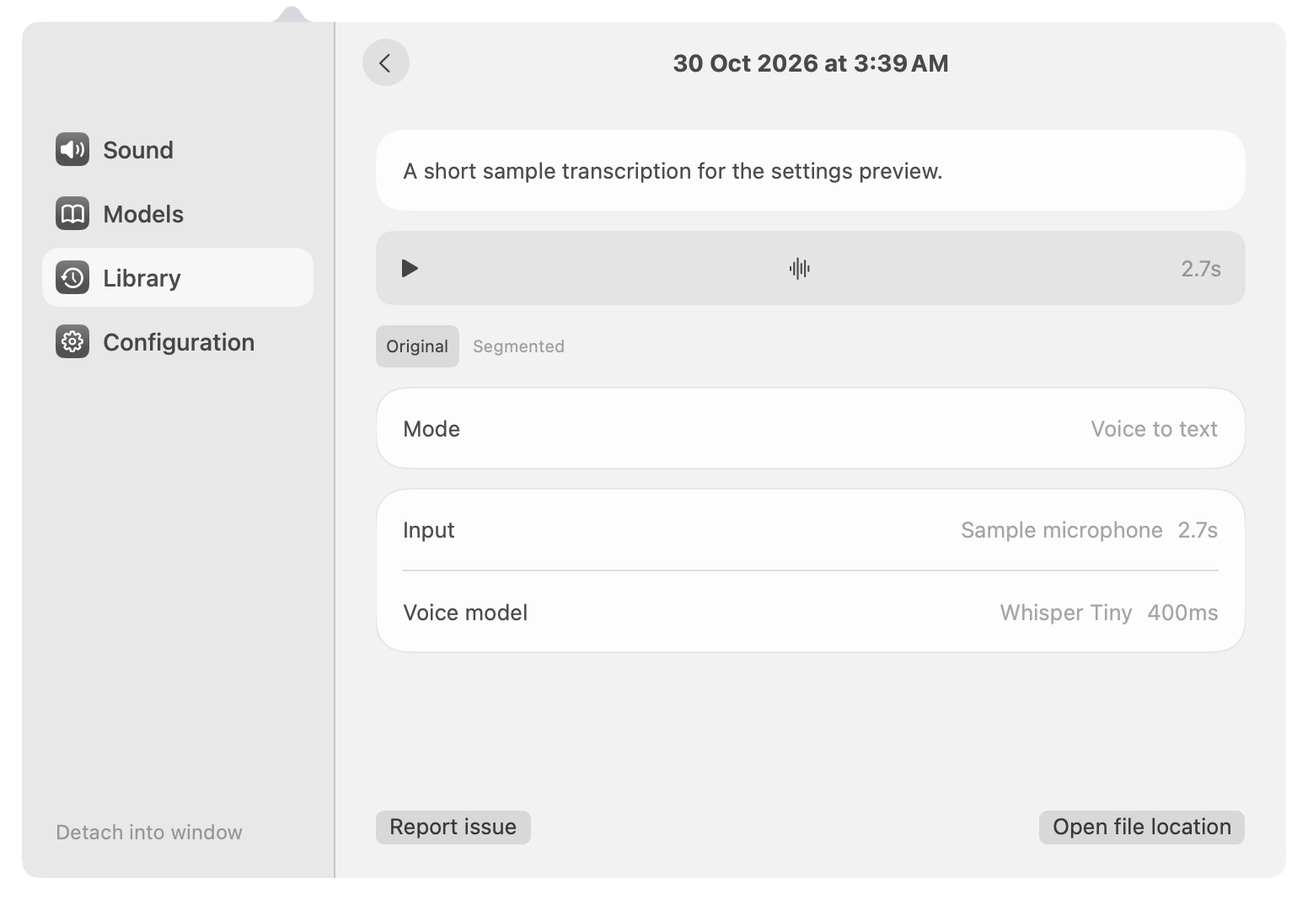
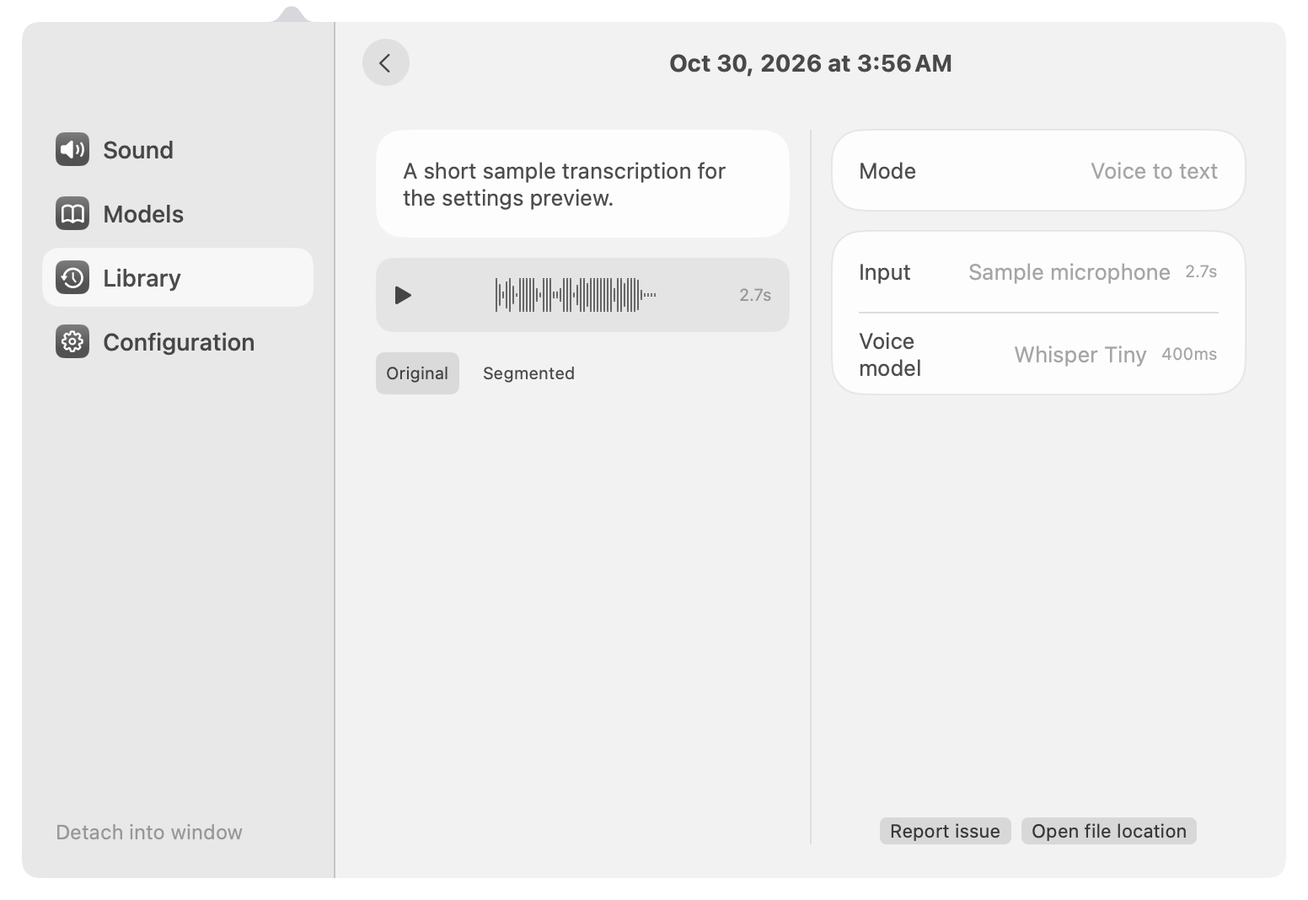
Refine settings captures and fixture behavior

diff --git a/Sources/LightTTS/Views/Settings/SettingsView.swift b/Sources/LightTTS/Views/Settings/SettingsView.swift
@@ -21,7 +21,7 @@ struct SettingsView: View {
         HStack(spacing: 0) {
             VStack(alignment: .leading, spacing: 3) {
                 ForEach(SettingsTab.allCases, id: \.rawValue) { tab in
-                    Button { controller.settingsSelection = tab.rawValue } label: {
+                    Button { controller.selectSettings(tab.rawValue) } label: {
                         HStack(spacing: 8) {
                             Image(systemName: tab.icon).font(.system(size: 12, weight: .semibold)).foregroundStyle(.white).frame(width: 20, height: 20).background(Color(white: 0.32).gradient, in: RoundedRectangle(cornerRadius: 5))
                             Text(tab.rawValue).font(.system(size: 14, weight: .medium))
@@ -36,7 +36,7 @@ struct SettingsView: View {
             VStack(spacing: 0) {
                 HStack {
                     if controller.settingsSelection == "Library" {
-                        Button { if controller.selectedHistory != nil { controller.stopHistoryPlayback(); controller.selectedHistory = nil } else { controller.settingsSelection = "Sound" } } label: { Image(systemName: "chevron.left").frame(width: 28, height: 28).background(Color.primary.opacity(0.09), in: Circle()) }.buttonStyle(.plain)
+                        Button { if controller.selectedHistory != nil { controller.stopHistoryPlayback(); controller.selectedHistory = nil } else { controller.leaveLibrary() } } label: { Image(systemName: "chevron.left").frame(width: 28, height: 28).background(Color.primary.opacity(0.09), in: Circle()) }.buttonStyle(.plain)
                     }
                     if let item = controller.selectedHistory, controller.settingsSelection == "Library" { Spacer(); Text(item.date.formatted(Date.FormatStyle(date: .abbreviated, time: .shortened).locale(Locale(identifier: "en_US")))).font(.system(size: 14, weight: .bold)); Spacer() }
                     else { Text(controller.settingsSelection).font(.system(size: 14, weight: .bold)); Spacer() }
@@ -46,7 +46,7 @@ struct SettingsView: View {
                             HStack(spacing: 6) { Image(systemName: "magnifyingglass"); TextField("Search history", text: $controller.historySearch).textFieldStyle(.plain); Button { controller.historySearch = ""; controller.historySearchVisible = false } label: { Image(systemName: "xmark.circle.fill") }.buttonStyle(.plain) }.padding(.horizontal, 9).frame(width: 220, height: 28).background(Color.primary.opacity(0.09), in: Capsule())
                         } else { Button { controller.historySearchVisible.toggle() } label: { Image(systemName: "magnifyingglass").frame(width: 28, height: 28).background(Color.primary.opacity(0.09), in: Circle()) }.buttonStyle(.plain).help("Search recordings") }
                     } else {
-                        Menu { Button("System Default") { UserDefaults.standard.set("", forKey: "inputDevice") }; Divider(); ForEach(AVCaptureDevice.devices(for: .audio), id: \.uniqueID) { device in Button(device.localizedName) { UserDefaults.standard.set(device.uniqueID, forKey: "inputDevice") } } } label: { Image(systemName: "laptopcomputer").font(.system(size: 14)) }.menuStyle(.borderlessButton).menuIndicator(.hidden).frame(width: 28, height: 28).background(Color.primary.opacity(0.09), in: Circle()).overlay(Circle().stroke(Color.primary.opacity(0.1))).help("Select microphone")
+                        Menu { Button("System Default") { SettingsDefaults.store.set("", forKey: "inputDevice") }; Divider(); ForEach(AVCaptureDevice.devices(for: .audio), id: \.uniqueID) { device in Button(device.localizedName) { SettingsDefaults.store.set(device.uniqueID, forKey: "inputDevice") } } } label: { Image(systemName: "laptopcomputer").font(.system(size: 14)) }.menuStyle(.borderlessButton).menuIndicator(.hidden).frame(width: 28, height: 28).background(Color.primary.opacity(0.09), in: Circle()).overlay(Circle().stroke(Color.primary.opacity(0.1))).help("Select microphone")
                     }
                 }.padding(.horizontal, 16).frame(height: 48)
                 switch controller.settingsSelection {
@@ -56,7 +56,7 @@ struct SettingsView: View {
                 default: ConfigurationPageView(controller: controller)
                 }
             }.frame(maxWidth: .infinity, maxHeight: .infinity, alignment: .topLeading).background(Color(nsColor: dark ? NSColor(srgbRed: 44/255, green: 47/255, blue: 52/255, alpha: 1) : NSColor(srgbRed: 0.95, green: 0.95, blue: 0.95, alpha: 1)))
-        }.frame(width: 750, height: 508).foregroundStyle(dark ? Color(red: 233/255, green: 233/255, blue: 234/255) : Color(nsColor: .labelColor)).preferredColorScheme(effectiveTheme == "Dark" ? .dark : effectiveTheme == "Light" ? .light : nil)
+        }.frame(width: 750, height: 508).foregroundStyle(dark ? Color(red: 233/255, green: 233/255, blue: 234/255) : Color(nsColor: .labelColor)).preferredColorScheme(effectiveTheme == "Dark" ? .dark : effectiveTheme == "Light" ? .light : nil).defaultAppStorage(CommandLine.arguments.contains("--ui-fixture") ? SettingsDefaults.store : .standard)
     }
 }
 
@@ -67,11 +67,22 @@ private struct SettingsCard<Content: View>: View {
     @ViewBuilder var content: Content
     var body: some View { VStack(spacing: 0) { content }.padding(.horizontal, 16).background(scheme == .dark ? Color(red: 60/255, green: 63/255, blue: 67/255) : Color(white: 253/255), in: RoundedRectangle(cornerRadius: 18)).overlay(RoundedRectangle(cornerRadius: 18).stroke(Color.primary.opacity(0.08))) }
 }
+private struct ReferenceSwitchStyle: ToggleStyle {
+    let label: String
+    @Environment(\.isEnabled) private var enabled
+    func makeBody(configuration: Configuration) -> some View {
+        Button { configuration.isOn.toggle() } label: {
+            Capsule().fill(configuration.isOn ? Color(red: 228/255, green: 92/255, blue: 156/255) : Color.primary.opacity(0.16))
+                .overlay(Circle().fill(Color.white).frame(width: 16, height: 16).shadow(color: .black.opacity(0.18), radius: 1, y: 1).offset(x: configuration.isOn ? 7 : -7))
+                .frame(width: 34, height: 20).opacity(enabled ? 1 : 0.5)
+        }.buttonStyle(.plain).accessibilityLabel(label).accessibilityValue(configuration.isOn ? "On" : "Off")
+    }
+}
 private struct SettingsRow<Content: View>: View {
     let title: String
     var help: String? = nil
     @ViewBuilder var content: Content
-    var body: some View { HStack(spacing: 8) { Text(title); if let help { Image(systemName: "info.circle").help(help) }; Spacer(); content }.frame(minHeight: 48) }
+    var body: some View { HStack(spacing: 8) { Text(title).lineLimit(1).fixedSize(horizontal: true, vertical: false); if let help { Image(systemName: "info.circle").help(help) }; Spacer(); content }.frame(minHeight: 48) }
 }
 private struct SoundPageView: View {
     @ObservedObject var controller: AppController
@@ -97,7 +108,7 @@ private struct SoundPageView: View {
                     }.menuStyle(.borderlessButton).menuIndicator(.hidden).frame(width: 145, height: 30).background(Color.primary.opacity(0.08), in: RoundedRectangle(cornerRadius: 9)).overlay(RoundedRectangle(cornerRadius: 9).stroke(Color.primary.opacity(0.1))).overlay(alignment: .trailing) { Image(systemName: "chevron.up.chevron.down").font(.system(size: 10)).foregroundStyle(.secondary).padding(.trailing, 9).allowsHitTesting(false) }.help("Pause uses the system media control; Muffle lowers volume if system audio capture is unavailable.")
                 }
                 Divider()
-                HStack { Text("Automatically increase microphone volume"); Image(systemName: "questionmark.circle").help("Increase input volume while recording"); Spacer(); Toggle("", isOn: $increaseMic).labelsHidden().toggleStyle(.switch).tint(Color(red: 228/255, green: 92/255, blue: 156/255)) }.frame(minHeight: 48)
+                HStack { Text("Automatically increase microphone volume"); Image(systemName: "questionmark.circle").help("Increase input volume while recording"); Spacer(); Toggle("", isOn: $increaseMic).labelsHidden().toggleStyle(ReferenceSwitchStyle(label: "Automatically increase microphone volume")) }.frame(minHeight: 48)
             }
             if !controller.message.isEmpty { Text(controller.message).font(.caption).foregroundStyle(.secondary) }
         }.padding(.horizontal, 24).padding(.top, 16) }.font(.system(size: 14))
@@ -140,8 +151,8 @@ private struct LibraryPageView: View {
                         Text(item.text).textSelection(.enabled).frame(maxWidth: .infinity, alignment: .leading).padding(16).background(scheme == .dark ? Color(red: 60/255, green: 63/255, blue: 67/255) : Color(white: 253/255), in: RoundedRectangle(cornerRadius: 16))
                         HStack { Button { controller.toggleHistoryPlayback(item) } label: { Image(systemName: controller.playingHistoryID == item.id ? "pause.fill" : "play.fill") }.buttonStyle(.plain).disabled(controller.historyAudioURL(item) == nil); HStack(spacing: 1) { if let waveform = item.waveform, !waveform.isEmpty { ForEach(Array(waveform.enumerated()), id: \.offset) { _, amplitude in Capsule().fill(Color.primary.opacity(0.65)).frame(width: 1, height: max(2, CGFloat(amplitude) * 20)) } } else { Image(systemName: "waveform").foregroundStyle(.secondary) } }.frame(maxWidth: .infinity, minHeight: 24); Text(item.recordingDuration.map { String(format: "%.1fs", $0) } ?? "—").foregroundStyle(.secondary).font(.caption) }.padding(10).background(Color.primary.opacity(0.07), in: RoundedRectangle(cornerRadius: 10))
                         HStack {
-                            Button("Original") { controller.historySegmented = false }.buttonStyle(.plain).padding(6).background(!controller.historySegmented ? Color.primary.opacity(0.12) : .clear, in: RoundedRectangle(cornerRadius: 5))
-                            Button("Segmented") { controller.historySegmented = true }.buttonStyle(.plain).padding(6).background(controller.historySegmented ? Color.primary.opacity(0.12) : .clear, in: RoundedRectangle(cornerRadius: 5)).disabled(item.segments?.isEmpty ?? true).help("Play speech segments detected from the recording")
+                            Button("Original") { controller.stopHistoryPlayback(); controller.historySegmented = false }.buttonStyle(.plain).padding(6).background(!controller.historySegmented ? Color.primary.opacity(0.12) : .clear, in: RoundedRectangle(cornerRadius: 5))
+                            Button("Segmented") { controller.stopHistoryPlayback(); controller.historySegmented = true }.buttonStyle(.plain).padding(6).background(controller.historySegmented ? Color.primary.opacity(0.12) : .clear, in: RoundedRectangle(cornerRadius: 5)).disabled(item.segments?.isEmpty ?? true).help("Play speech segments detected from the recording")
                         }.font(.caption)
                         if controller.historySegmented, let segments = item.segments {
                             ForEach(Array(segments.enumerated()), id: \.offset) { index, segment in Button { controller.toggleHistoryPlayback(item, segment: segment) } label: { HStack { Image(systemName: "play.fill"); Text("Segment \(index + 1)"); Spacer(); Text(String(format: "%.1fs – %.1fs", segment.start, segment.end)).foregroundStyle(.secondary) }.font(.caption).padding(10).background(Color.primary.opacity(0.07), in: RoundedRectangle(cornerRadius: 8)) }.buttonStyle(.plain) }
@@ -209,37 +220,37 @@ private struct ConfigurationPageView: View {
                 Divider()
                 HStack(alignment: .top) { Text("Recording window").padding(.top, 16); Spacer(); choices(["Classic", "Mini", "None"], selection: $recordingWindow, icons: ["waveform", "waveform", "eye.slash"]) }.padding(.vertical, 8)
                 Divider()
-                HStack(spacing: 8) { Text("Always show"); Image(systemName: "questionmark.circle").help("Keep the mini recording window visible"); Spacer(); Toggle("", isOn: $alwaysShow).labelsHidden().toggleStyle(.switch).tint(Color(red: 228/255, green: 92/255, blue: 156/255)).disabled(recordingWindow != "Mini") }.frame(height: 45)
+                HStack(spacing: 8) { Text("Always show"); Image(systemName: "questionmark.circle").help("Keep the mini recording window visible"); Spacer(); Toggle("", isOn: $alwaysShow).labelsHidden().toggleStyle(ReferenceSwitchStyle(label: "Always show")).disabled(recordingWindow != "Mini") }.frame(height: 45)
             }.onChange(of: recordingWindow) { _ in controller.refreshRecordingWindow() }.onChange(of: alwaysShow) { _ in controller.refreshRecordingWindow() }
             Text("Keyboard Shortcuts").font(.system(size: 14, weight: .semibold))
             SettingsCard {
                 shortcutRow("Toggle Recording", subtitle: "Starts and stops recordings", key: "hotkeyCode", modifiers: "hotkeyModifiers", fallback: 49); Divider()
                 shortcutRow("Cancel Recording", subtitle: "Discards the active recording", key: "cancelHotkeyCode", modifiers: nil, fallback: 53); Divider()
-                HStack { VStack(alignment: .leading, spacing: 2) { Text("Change mode"); Text("Activates the mode switcher").font(.system(size: 11)).foregroundStyle(.secondary) }; Spacer(); Image(systemName: "arrow.counterclockwise"); keycap("⌥"); keycap("⇧"); keycap("K") }.frame(minHeight: 50).foregroundStyle(.secondary).help("Modes are not included in LightTTS"); Divider()
+                HStack { VStack(alignment: .leading, spacing: 2) { Text("Change mode"); Text("Activates the mode switcher").font(.system(size: 11)).foregroundStyle(.secondary) }; Spacer(); Image(systemName: "arrow.counterclockwise"); keycap("⌥"); keycap("⇧"); keycap("K") }.frame(minHeight: 50).help("Modes are not included in LightTTS"); Divider()
                 shortcutRow("Push to Talk", subtitle: "Hold to record, release when done", key: "pushHotkeyCode", modifiers: "pushHotkeyModifiers", fallback: 49, enabled: "pushShortcutEnabled"); Divider()
                 HStack { VStack(alignment: .leading, spacing: 2) { Text("Mouse shortcut"); Text("Tap to toggle, or hold and release when done").font(.system(size: 11)).foregroundStyle(.secondary) }; Spacer(); MouseShortcutRecorder().frame(width: 120, height: 28) }.frame(minHeight: 50)
             }
             Text("Application").font(.system(size: 14, weight: .semibold))
             SettingsCard {
                 SettingsRow(title: "Update application") { Button("Check for Updates…") { controller.checkUpdates() } }; Divider()
-                SettingsRow(title: "Automatically check for updates", help: "Check for new releases automatically") { Toggle("", isOn: $autoCheckUpdates).labelsHidden().toggleStyle(.switch).tint(Color(red: 228/255, green: 92/255, blue: 156/255)) }; Divider()
-                SettingsRow(title: "Launch on login", help: "Open LightTTS when you log in") { Toggle("", isOn: $controller.loginEnabled).labelsHidden().toggleStyle(.switch).tint(Color(red: 228/255, green: 92/255, blue: 156/255)).onChange(of: controller.loginEnabled) { value in do { if value { try SMAppService.mainApp.register() } else { try SMAppService.mainApp.unregister() } } catch { controller.loginEnabled = SMAppService.mainApp.status == .enabled; controller.message = error.localizedDescription } } }; Divider()
-                SettingsRow(title: "Error logging", help: "Write diagnostic errors to a local log") { Toggle("", isOn: $errorLogging).labelsHidden().toggleStyle(.switch).tint(Color(red: 228/255, green: 92/255, blue: 156/255)).help("Write errors to a local log") }; Divider()
+                SettingsRow(title: "Automatically check for updates", help: "Check for new releases automatically") { Toggle("", isOn: $autoCheckUpdates).labelsHidden().toggleStyle(ReferenceSwitchStyle(label: "Automatically check for updates")) }; Divider()
+                SettingsRow(title: "Launch on login", help: "Open LightTTS when you log in") { Toggle("", isOn: $controller.loginEnabled).labelsHidden().toggleStyle(ReferenceSwitchStyle(label: "Launch on login")).onChange(of: controller.loginEnabled) { value in do { if value { try SMAppService.mainApp.register() } else { try SMAppService.mainApp.unregister() } } catch { controller.loginEnabled = SMAppService.mainApp.status == .enabled; controller.message = error.localizedDescription } } }; Divider()
+                SettingsRow(title: "Error logging", help: "Write diagnostic errors to a local log") { Toggle("", isOn: $errorLogging).labelsHidden().toggleStyle(ReferenceSwitchStyle(label: "Error logging")).help("Write errors to a local log") }; Divider()
                 SettingsRow(title: "Keep recordings for", help: "Automatically remove older recordings") { Picker("Keep recordings for", selection: retentionBinding) { Text("Forever").tag(0); Text("1 day").tag(1); Text("1 week").tag(7); Text("2 weeks").tag(14); Text("1 month").tag(30); Text("6 months").tag(180); Text("1 year").tag(365) }.labelsHidden().frame(width: 140) }
             }
             SettingsCard { Button { controller.showAdvanced.toggle() } label: { HStack { Text("Advanced settings"); Spacer(); Image(systemName: controller.showAdvanced ? "chevron.down" : "chevron.right").foregroundStyle(.secondary) }.frame(height: 48).contentShape(Rectangle()) }.buttonStyle(.plain) }
             if controller.showAdvanced {
                 Text("Text input").font(.system(size: 14, weight: .semibold))
                 SettingsCard {
-                    SettingsRow(title: "Paste result text") { Toggle("", isOn: $pasteResult).labelsHidden().toggleStyle(.switch).tint(Color(red: 228/255, green: 92/255, blue: 156/255)) }; Divider()
-                    SettingsRow(title: "Restore clipboard after pasting") { Toggle("", isOn: $restoreClipboard).labelsHidden().toggleStyle(.switch).tint(Color(red: 228/255, green: 92/255, blue: 156/255)).disabled(!pasteResult || simulateTyping) }; Divider()
-                    SettingsRow(title: "Hold Shift to auto-send") { Toggle("", isOn: $sendOnShift).labelsHidden().toggleStyle(.switch).tint(Color(red: 228/255, green: 92/255, blue: 156/255)).disabled(!pasteResult) }; Divider()
-                    SettingsRow(title: "Simulate keypresses") { Toggle("", isOn: $simulateTyping).labelsHidden().toggleStyle(.switch).tint(Color(red: 228/255, green: 92/255, blue: 156/255)).disabled(!pasteResult) }
+                    SettingsRow(title: "Paste result text") { Toggle("", isOn: $pasteResult).labelsHidden().toggleStyle(ReferenceSwitchStyle(label: "Paste result text")) }; Divider()
+                    SettingsRow(title: "Restore clipboard after pasting") { Toggle("", isOn: $restoreClipboard).labelsHidden().toggleStyle(ReferenceSwitchStyle(label: "Restore clipboard after pasting")).disabled(!pasteResult || simulateTyping) }; Divider()
+                    SettingsRow(title: "Hold Shift to auto-send") { Toggle("", isOn: $sendOnShift).labelsHidden().toggleStyle(ReferenceSwitchStyle(label: "Hold Shift to auto-send")).disabled(!pasteResult) }; Divider()
+                    SettingsRow(title: "Simulate keypresses") { Toggle("", isOn: $simulateTyping).labelsHidden().toggleStyle(ReferenceSwitchStyle(label: "Simulate keypresses")).disabled(!pasteResult) }
                 }
                 Text("Audio processing").font(.system(size: 14, weight: .semibold))
                 SettingsCard {
-                    SettingsRow(title: "Silence removal") { Toggle("", isOn: $removeSilence).labelsHidden().toggleStyle(.switch).tint(Color(red: 228/255, green: 92/255, blue: 156/255)) }; Divider()
-                    SettingsRow(title: "Dynamic normalization") { Toggle("", isOn: $normalizeAudio).labelsHidden().toggleStyle(.switch).tint(Color(red: 228/255, green: 92/255, blue: 156/255)) }; Divider()
+                    SettingsRow(title: "Silence removal") { Toggle("", isOn: $removeSilence).labelsHidden().toggleStyle(ReferenceSwitchStyle(label: "Silence removal")) }; Divider()
+                    SettingsRow(title: "Dynamic normalization") { Toggle("", isOn: $normalizeAudio).labelsHidden().toggleStyle(ReferenceSwitchStyle(label: "Dynamic normalization")) }; Divider()
                     SettingsRow(title: "Accessibility") { Button("Request Access") { _ = AXIsProcessTrustedWithOptions([kAXTrustedCheckOptionPrompt.takeUnretainedValue() as String: true] as CFDictionary) } }
                 }
             }
@@ -295,6 +306,6 @@ private struct ConfigurationPageView: View {
     private func keyLabel(_ code: Int) -> String { let letters = [0:"A",1:"S",2:"D",3:"F",4:"H",5:"G",6:"Z",7:"X",8:"C",9:"V",11:"B",12:"Q",13:"W",14:"E",15:"R",16:"Y",17:"T",31:"O",32:"U",34:"I",35:"P",37:"L",38:"J",40:"K",45:"N",46:"M"]; return code == 49 ? "Space" : code == 53 ? "esc" : (letters[code] ?? "Key \(code)") }
     private func keycap(_ text: String) -> some View { Text(text).font(.system(size: 11, weight: .semibold)).padding(.horizontal, 6).padding(.vertical, 4).background(Color.primary.opacity(0.13), in: RoundedRectangle(cornerRadius: 4)) }
     private func shortcutRow(_ title: String, subtitle: String, key: String, modifiers: String?, fallback: Int, enabled: String? = nil) -> some View {
-        HStack { VStack(alignment: .leading, spacing: 2) { Text(title); Text(subtitle).font(.system(size: 11)).foregroundStyle(.secondary) }; Spacer(); Button { if let enabled { UserDefaults.standard.set(false, forKey: enabled) } else { UserDefaults.standard.removeObject(forKey: key); if let modifiers { UserDefaults.standard.removeObject(forKey: modifiers) } }; controller.objectWillChange.send() } label: { Image(systemName: enabled == nil ? "arrow.counterclockwise" : "xmark") }.buttonStyle(.plain); ZStack { HStack(spacing: 4) { if let enabled, !UserDefaults.standard.bool(forKey: enabled) { Text("Record shortcut").font(.system(size: 11)).foregroundStyle(.secondary) } else { let raw = modifiers == "pushHotkeyModifiers" ? pushHotkeyModifiers : (modifiers == nil ? 0 : hotkeyModifiers); let flags = NSEvent.ModifierFlags(rawValue: UInt(raw)); if flags.contains(.control) { keycap("⌃") }; if flags.contains(.option) { keycap("⌥") }; if flags.contains(.shift) { keycap("⇧") }; if flags.contains(.command) { keycap("⌘") }; let code = key == "cancelHotkeyCode" ? cancelHotkeyCode : (key == "pushHotkeyCode" ? pushHotkeyCode : hotkeyCode); keycap(keyLabel(code)) } }; ShortcutRecorder(codeKey: key, modifiersKey: modifiers, fallbackCode: fallback, enabledKey: enabled).opacity(0.015) }.id("\(key)-\(hotkeyCode)-\(hotkeyModifiers)-\(cancelHotkeyCode)-\(pushShortcutEnabled)-\(pushHotkeyCode)-\(pushHotkeyModifiers)").frame(minWidth: 60, maxWidth: 120, minHeight: 28) }.frame(minHeight: 50)
+        HStack { VStack(alignment: .leading, spacing: 2) { Text(title); Text(subtitle).font(.system(size: 11)).foregroundStyle(.secondary) }; Spacer(); Button { if let enabled { SettingsDefaults.store.set(false, forKey: enabled) } else { SettingsDefaults.store.removeObject(forKey: key); if let modifiers { SettingsDefaults.store.removeObject(forKey: modifiers) } }; controller.objectWillChange.send() } label: { Image(systemName: enabled == nil ? "arrow.counterclockwise" : "xmark") }.buttonStyle(.plain); ZStack { HStack(spacing: 4) { if let enabled, !SettingsDefaults.store.bool(forKey: enabled) { Text("Record shortcut").font(.system(size: 11)).foregroundStyle(.secondary) } else { let raw = modifiers == "pushHotkeyModifiers" ? pushHotkeyModifiers : (modifiers == nil ? 0 : hotkeyModifiers); let flags = NSEvent.ModifierFlags(rawValue: UInt(raw)); if flags.contains(.control) { keycap("⌃") }; if flags.contains(.option) { keycap("⌥") }; if flags.contains(.shift) { keycap("⇧") }; if flags.contains(.command) { keycap("⌘") }; let code = key == "cancelHotkeyCode" ? cancelHotkeyCode : (key == "pushHotkeyCode" ? pushHotkeyCode : hotkeyCode); keycap(keyLabel(code)) } }; ShortcutRecorder(codeKey: key, modifiersKey: modifiers, fallbackCode: fallback, enabledKey: enabled).opacity(0.015) }.id("\(key)-\(hotkeyCode)-\(hotkeyModifiers)-\(cancelHotkeyCode)-\(pushShortcutEnabled)-\(pushHotkeyCode)-\(pushHotkeyModifiers)").frame(minWidth: 60, maxWidth: 120, minHeight: 28) }.frame(minHeight: 50)
     }
 }

diff --git a/Sources/LightTTS/Views/Settings/ShortcutRecorder.swift b/Sources/LightTTS/Views/Settings/ShortcutRecorder.swift
@@ -1,6 +1,10 @@
 import AppKit
 import SwiftUI
 
+enum SettingsDefaults {
+    static var store: UserDefaults { CommandLine.arguments.contains("--ui-fixture") ? (UserDefaults(suiteName: "com.lighttts.ui-fixture") ?? .standard) : .standard }
+}
+
 struct ShortcutRecorder: NSViewRepresentable {
     let codeKey: String
     let modifiersKey: String?
@@ -27,15 +31,15 @@ final class ShortcutButton: NSButton {
         guard recording else { super.keyDown(with: event); return }
         let flags = event.modifierFlags.intersection([.option, .command, .control, .shift])
         if modifiersKey != nil && flags.isEmpty { NSSound.beep(); return }
-        UserDefaults.standard.set(Int(event.keyCode), forKey: codeKey)
-        if let enabledKey { UserDefaults.standard.set(true, forKey: enabledKey) }
-        if let modifiersKey { UserDefaults.standard.set(Int(flags.rawValue), forKey: modifiersKey); UserDefaults.standard.set(false, forKey: "rightOption") }
+        SettingsDefaults.store.set(Int(event.keyCode), forKey: codeKey)
+        if let enabledKey { SettingsDefaults.store.set(true, forKey: enabledKey) }
+        if let modifiersKey { SettingsDefaults.store.set(Int(flags.rawValue), forKey: modifiersKey); SettingsDefaults.store.set(false, forKey: "rightOption") }
         recording = false; Self.isRecording = false; refresh(); window?.makeFirstResponder(nil)
     }
     override func resignFirstResponder() -> Bool { recording = false; Self.isRecording = false; refresh(); return super.resignFirstResponder() }
     func refresh() {
         guard !recording else { return }
-        let defaults = UserDefaults.standard
+        let defaults = SettingsDefaults.store
         if let enabledKey, !defaults.bool(forKey: enabledKey) { title = "Record…"; return }
         let code = defaults.object(forKey: codeKey) as? Int ?? fallbackCode
         let raw = modifiersKey.flatMap { defaults.object(forKey: $0) as? Int } ?? (modifiersKey == nil ? 0 : Int(NSEvent.ModifierFlags.option.rawValue))
@@ -63,7 +67,7 @@ final class MouseShortcutButton: NSButton {
     required init?(coder: NSCoder) { fatalError() }
     @objc private func begin() { Self.isRecording = true; title = "Click a mouse button"; window?.makeFirstResponder(self) }
     override var acceptsFirstResponder: Bool { true }
-    override func otherMouseDown(with event: NSEvent) { guard Self.isRecording else { super.otherMouseDown(with: event); return }; UserDefaults.standard.set(event.buttonNumber, forKey: "mouseShortcut"); Self.isRecording = false; refresh(); window?.makeFirstResponder(nil) }
+    override func otherMouseDown(with event: NSEvent) { guard Self.isRecording else { super.otherMouseDown(with: event); return }; SettingsDefaults.store.set(event.buttonNumber, forKey: "mouseShortcut"); Self.isRecording = false; refresh(); window?.makeFirstResponder(nil) }
     override func resignFirstResponder() -> Bool { Self.isRecording = false; refresh(); return super.resignFirstResponder() }
-    func refresh() { guard !Self.isRecording else { return }; let value = UserDefaults.standard.object(forKey: "mouseShortcut") as? Int ?? -1; title = value < 0 ? "Record shortcut" : "Mouse \(value + 1)"; font = .systemFont(ofSize: 12, weight: .medium); contentTintColor = .secondaryLabelColor }
+    func refresh() { guard !Self.isRecording else { return }; let value = SettingsDefaults.store.object(forKey: "mouseShortcut") as? Int ?? -1; title = value < 0 ? "Record shortcut" : "Mouse \(value + 1)"; font = .systemFont(ofSize: 12, weight: .medium); contentTintColor = .secondaryLabelColor }
 }

diff --git a/Sources/LightTTS/AppController.swift b/Sources/LightTTS/AppController.swift
@@ -8,6 +8,7 @@ import ServiceManagement
 @MainActor final class AppController: NSObject, ObservableObject {
     @Published var state = "idle"
     @Published var settingsSelection = "Sound"
+    private var previousSettingsSelection = "Sound"
     @Published var level: Float = 0
     @Published var started = Date()
     @Published var message = ""
@@ -99,6 +100,12 @@ import ServiceManagement
         }
     }
     #endif
+    func selectSettings(_ selection: String) {
+        if selection == "Library" && settingsSelection != "Library" { previousSettingsSelection = settingsSelection }
+        if selection != "Library" { stopHistoryPlayback(); selectedHistory = nil; historySearchVisible = false; historySearch = "" }
+        settingsSelection = selection
+    }
+    func leaveLibrary() { historySearchVisible = false; historySearch = ""; selectSettings(previousSettingsSelection) }
     func warmSelected() {
         let selected = ProcessInfo.processInfo.environment["LIGHTTTS_TEST_MODEL"] ?? UserDefaults.standard.string(forKey: "selectedModel") ?? "whisper-tiny.en"
         guard selected != loadedID, selected != warmingID, let model = models.first(where: { $0.id == selected }), ModelStore.exists(model) else { return }
@@ -348,7 +355,7 @@ import ServiceManagement
         } catch { message = error.localizedDescription }
     }
     func cancelDownload() { downloadTask?.cancel() }
-    func prepareToQuit() async { let task = downloadTask; task?.cancel(); await task?.value }
+    func prepareToQuit() async { if state != "idle" { cancel() }; await audioSettings.waitForRestoration(); let task = downloadTask; task?.cancel(); await task?.value }
     func download(_ model: Model) {
         guard busyModel == nil else { return }
         busyModel = model.id; downloadProgress = 0

diff --git a/Sources/LightTTS/AudioSettings.swift b/Sources/LightTTS/AudioSettings.swift
@@ -85,6 +85,7 @@ final class AudioSettings {
         }
         pauseSession.end()
     }
+    func waitForRestoration() async { await withCheckedContinuation { continuation in muffleQueue.async { continuation.resume() } } }
     static func cue(start: Bool) {
         guard (ProcessInfo.processInfo.environment["LIGHTTTS_TEST_AUDIO"] ?? "").isEmpty else { return }
         let defaults = UserDefaults.standard

diff --git a/docs/ui-shots/README.md b/docs/ui-shots/README.md
@@ -1,6 +1,6 @@
 # Settings visual comparisons
 
-The `settings-*` images show LightTTS at 2× in both appearances and presentations. Library images use synthetic entries supplied by `--ui-fixture`; fixture history is stored separately from the user's history. Detail captures use the synthetic WAV and synthetic metadata; no audio is played during capture. The empty Models host is intentional and will be filled by the models work.
+The `settings-*` images show LightTTS at 2× in both appearances and presentations. Library images use synthetic entries supplied by `--ui-fixture`; fixture history and fixture settings use a separate temporary history file and preferences suite. Detail captures use the synthetic WAV and synthetic metadata; no audio is played during capture. The empty Models host is intentional and will be filled by the models work.
 
 The `ref-settings-*` images are reference-only Superwhisper captures. The History references are limited to a header or an empty search result to avoid including personal transcripts. Superwhisper presents its settings as a window, so the same window references inform both LightTTS presentations.
 
